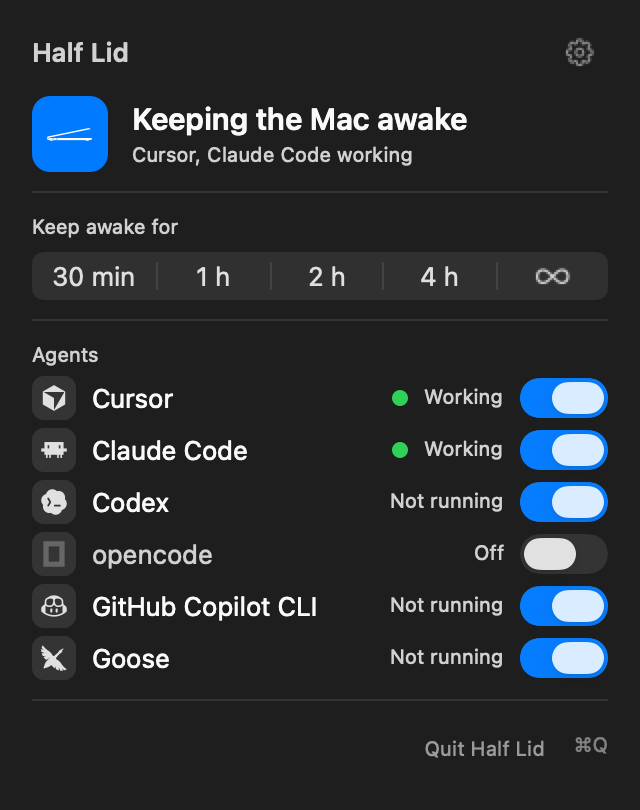
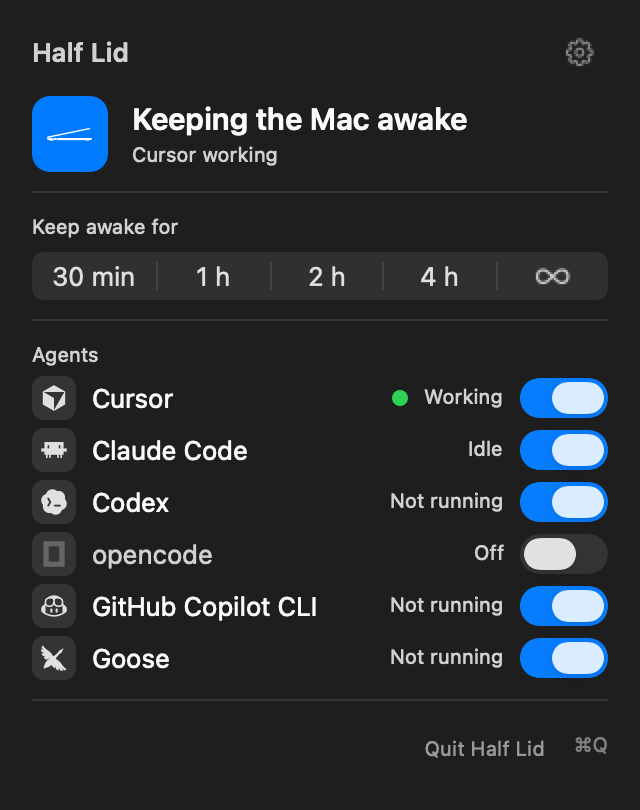
Add a social preview picture and show only Cursor working in the samples
docs/brand/social-preview.png (1280 x 640) is the picture GitHub shows when a
link to the repository is shared. scripts/social-preview.sh draws it again from
the outlines in HalfLidCore and the dark panel picture. GitHub has no API for
this picture, so it is uploaded by hand in the repository settings.

The sample data of the pictures now has only Cursor working, the one agent seen
working on a real Mac; Claude Code is shown as running but idle. The two panel
pictures are drawn again; the Settings pictures are left for the next release,
when all of them are made again.

Changed region(s): [[0.5938, 0.5247, 0.7812, 0.5864], [0.3125, 0.1852, 0.6562, 0.216]]

diff --git a/scripts/social-preview.swift b/scripts/social-preview.swift
@@ -1,0 +1,154 @@
+// Draws the picture GitHub shows when a link to the repository is shared: 1280 x 640 pixels, flat colours, no effects.
+//
+//   social-preview PANEL.png OUT.png
+//
+// Run it through scripts/social-preview.sh. The mark is the traced outline from HalfLidCore (the maintainer's drawing, nothing
+// redrawn), in the colours of docs/BRAND.md; the panel is a picture made by scripts/screenshots.sh. The script stops with an
+// error if a line of text would not fit its column, so a change of wording cannot silently cut a word off.
+import AppKit
+import CoreGraphics
+import CoreText
+import HalfLidCore
+import ImageIO
+import UniformTypeIdentifiers
+
+let canvasWidth = 1280
+let canvasHeight = 640
+let margin: CGFloat = 88
+
+// Colours: docs/BRAND.md (graphite and off-white), and the off-white at lower strength for the smaller lines. The strengths are
+// chosen so the smallest text still has a contrast of about 5:1 against the graphite.
+func srgb(_ hex: UInt32, alpha: CGFloat = 1) -> CGColor {
+    CGColor(
+        srgbRed: CGFloat((hex >> 16) & 0xFF) / 255, green: CGFloat((hex >> 8) & 0xFF) / 255, blue: CGFloat(hex & 0xFF) / 255,
+        alpha: alpha
+    )
+}
+let graphite = srgb(0x25272A)
+let offWhite = srgb(0xF0EDE6)
+let secondary = srgb(0xB3B2AE)
+let tertiary = srgb(0x95948F)
+let hairline = srgb(0xF0EDE6, alpha: 0.18)
+
+func fail(_ message: String) -> Never {
+    FileHandle.standardError.write(Data("social-preview: \(message)\n".utf8))
+    exit(1)
+}
+
+guard CommandLine.arguments.count == 3 else { fail("usage: social-preview PANEL.png OUT.png") }
+let panelURL = URL(fileURLWithPath: CommandLine.arguments[1])
+let outputURL = URL(fileURLWithPath: CommandLine.arguments[2])
+
+guard let panelSource = CGImageSourceCreateWithURL(panelURL as CFURL, nil),
+      let panel = CGImageSourceCreateImageAtIndex(panelSource, 0, nil) else {
+    fail("cannot read \(panelURL.path)")
+}
+guard let space = CGColorSpace(name: CGColorSpace.sRGB),
+      let context = CGContext(
+        data: nil, width: canvasWidth, height: canvasHeight, bitsPerComponent: 8, bytesPerRow: 0, space: space,
+        bitmapInfo: CGImageAlphaInfo.noneSkipLast.rawValue
+      ) else {
+    fail("cannot create the bitmap")
+}
+// Flat text on a flat colour: no sub-pixel smoothing, which would leave coloured fringes in a picture that is shown everywhere.
+context.setAllowsFontSmoothing(false)
+context.setShouldSmoothFonts(false)
+context.interpolationQuality = .high
+
+context.setFillColor(graphite)
+context.fill(CGRect(x: 0, y: 0, width: canvasWidth, height: canvasHeight))
+
+// MARK: right column, the panel
+
+let panelWidth: CGFloat = 392
+let panelHeight = (panelWidth * CGFloat(panel.height) / CGFloat(panel.width)).rounded()
+let panelRect = CGRect(
+    x: CGFloat(canvasWidth) - margin - panelWidth, y: ((CGFloat(canvasHeight) - panelHeight) / 2).rounded(),
+    width: panelWidth, height: panelHeight
+)
+let corner: CGFloat = 18
+context.saveGState()
+context.addPath(CGPath(roundedRect: panelRect, cornerWidth: corner, cornerHeight: corner, transform: nil))
+context.clip()
+context.draw(panel, in: panelRect)
+context.restoreGState()
+context.setStrokeColor(hairline)
+context.setLineWidth(1.5)
+context.addPath(CGPath(roundedRect: panelRect.insetBy(dx: 0.75, dy: 0.75), cornerWidth: corner, cornerHeight: corner, transform: nil))
+context.strokePath()
+
+// MARK: left column
+
+let columnWidth = panelRect.minX - margin - 56
+
+func line(_ text: String, size: CGFloat, weight: NSFont.Weight, color: CGColor, kern: CGFloat = 0) -> CTLine {
+    let font = NSFont.systemFont(ofSize: size, weight: weight) as CTFont
+    let attributes: [NSAttributedString.Key: Any] = [
+        NSAttributedString.Key(kCTFontAttributeName as String): font,
+        NSAttributedString.Key(kCTForegroundColorAttributeName as String): color,
+        NSAttributedString.Key(kCTKernAttributeName as String): kern,
+    ]
+    return CTLineCreateWithAttributedString(NSAttributedString(string: text, attributes: attributes))
+}
+
+/// Draws one line with its baseline at `y`. The ink, not the text box, starts at the margin: a font leaves a little room
+/// before its first letter, which would push a large title visibly to the right of the mark above it.
+func draw(_ text: String, size: CGFloat, weight: NSFont.Weight, color: CGColor, kern: CGFloat = 0, baseline y: CGFloat) {
+    let typeset = line(text, size: size, weight: weight, color: color, kern: kern)
+    context.textPosition = .zero // the bounds are measured from wherever the previous line left the text position
+    let ink = CTLineGetImageBounds(typeset, context)
+    if ink.width > columnWidth { fail("\"\(text)\" is \(Int(ink.width)) pixels wide, the column has \(Int(columnWidth))") }
+    context.textPosition = CGPoint(x: margin - ink.minX, y: y)
+    CTLineDraw(typeset, context)
+}
+
+// The stack, top to bottom (y grows upwards in this context): mark, name, tagline, small print. Its height is worked out from
+// the pieces so the whole block sits in the middle of the picture, level with the panel.
+let shapes = LidGlyph.shapes(for: .active)
+let markInk = shapes.body.boundingBox // the tight box: `bodyBounds` also counts the control points of the curves
+let markWidth: CGFloat = 384
+let markScale = markWidth / markInk.width
+let markHeight = markInk.height * markScale
+
+let nameSize: CGFloat = 118
+let taglineSize: CGFloat = 34
+let taglineLeading: CGFloat = 46
+let smallSize: CGFloat = 20
+
+let gapAfterMark: CGFloat = 40
+let gapAfterName: CGFloat = 30
+let gapAfterTagline: CGFloat = 54
+let nameHeight = nameSize * 0.72 // cap height of the system font
+let taglineHeight = taglineLeading + taglineSize * 0.72
+let smallHeight = smallSize * 0.72
+let stackHeight = markHeight + gapAfterMark + nameHeight + gapAfterName + taglineHeight + gapAfterTagline + smallHeight
+var cursor = ((CGFloat(canvasHeight) + stackHeight) / 2).rounded() // top of the stack
+
+// Mark: placed by its bounds, filled with the non-zero rule as the app does.
+context.saveGState()
+context.translateBy(x: margin, y: cursor - markHeight)
+context.scaleBy(x: markScale, y: markScale)
+context.translateBy(x: -markInk.minX, y: -markInk.minY)
+context.setFillColor(offWhite)
+context.addPath(shapes.body)
+context.fillPath(using: .winding)
+context.restoreGState()
+cursor -= markHeight + gapAfterMark
+
+draw("Half Lid", size: nameSize, weight: .semibold, color: offWhite, kern: -2.2, baseline: cursor - nameHeight)
+cursor -= nameHeight + gapAfterName
+
+draw("Keeps your Mac working with the lid closed", size: taglineSize, weight: .regular, color: secondary, baseline: cursor - taglineSize * 0.72)
+draw("while your coding agents do.", size: taglineSize, weight: .regular, color: secondary, baseline: cursor - taglineSize * 0.72 - taglineLeading)
+cursor -= taglineHeight + gapAfterTagline
+
+draw("macOS menu bar app. No account, no network, no admin password. MIT.", size: smallSize, weight: .regular, color: tertiary, baseline: cursor - smallHeight)
+
+// MARK: write
+
+guard let image = context.makeImage(),
+      let destination = CGImageDestinationCreateWithURL(outputURL as CFURL, UTType.png.identifier as CFString, 1, nil) else {
+    fail("cannot create \(outputURL.path)")
+}
+CGImageDestinationAddImage(destination, image, nil)
+guard CGImageDestinationFinalize(destination) else { fail("cannot write \(outputURL.path)") }

diff --git a/Sources/HalfLidPanel/PanelPreview.swift b/Sources/HalfLidPanel/PanelPreview.swift
@@ -117,7 +117,8 @@ enum PanelPreview {
             status = AgentLoop.Status(armed: false, indicator: .warning, latch: .batteryLow, report: report, at: now)
         default: // active
             let chats = [CursorChat(id: "a", activity: .working)]
-            report = WorkReport(working: true, cursor: CursorActivity(chats: chats), workingAgents: ["claude-code"], seenAgents: ["cursor", "claude-code"])
+            // Only Cursor works in the picture: it is the one agent seen working on a real Mac. Claude Code is shown as running but idle.
+            report = WorkReport(working: true, cursor: CursorActivity(chats: chats), workingAgents: [], seenAgents: ["cursor", "claude-code"])
             status = AgentLoop.Status(armed: true, indicator: .active, report: report, armedSeconds: 4_320, at: now)
         }
         let session = SessionSummary(startedAt: now.addingTimeInterval(-4_320), endedAt: now, ending: .finished)
